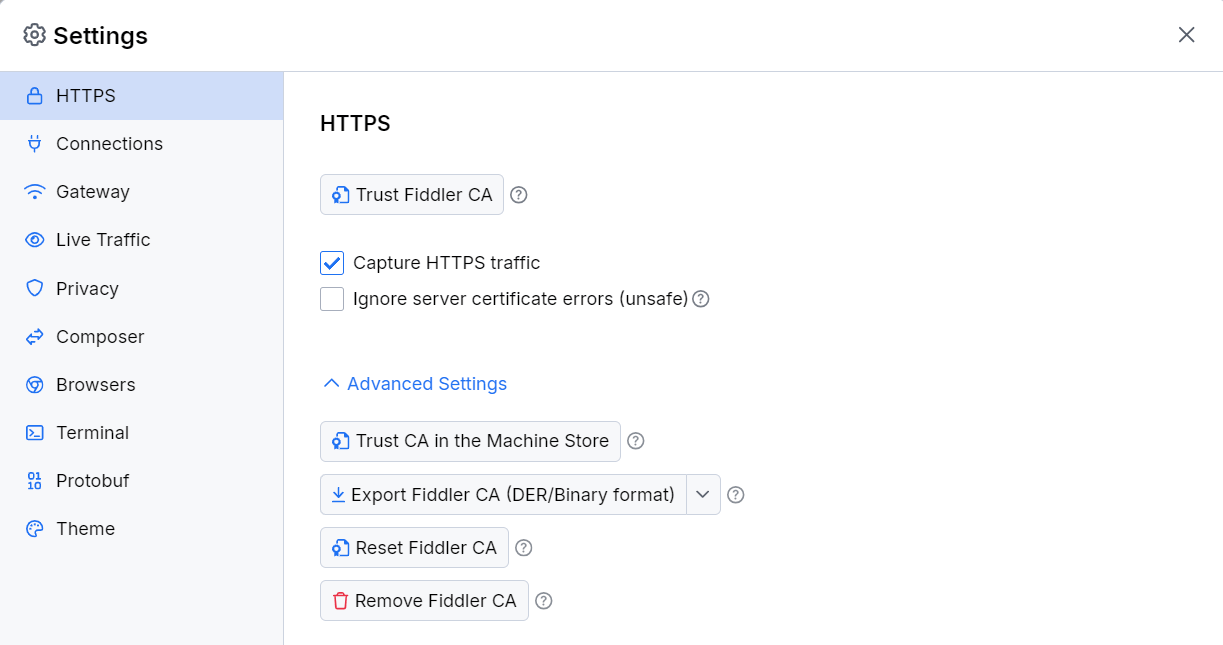
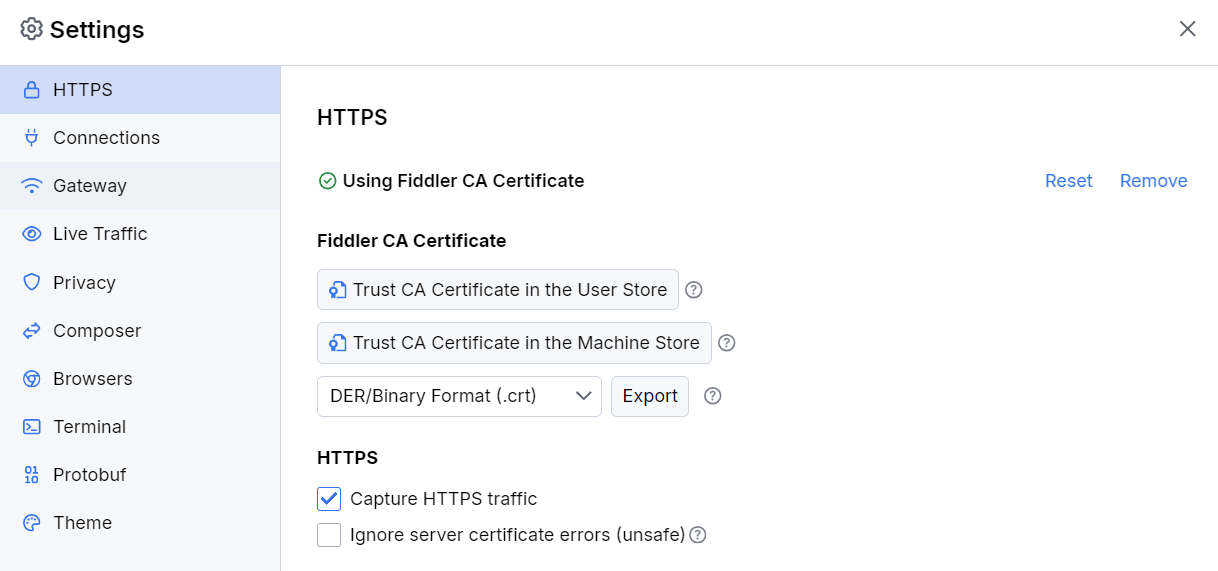
update article related to trusting the CA (#606)
* docs: improve Settings > HTTPS

* docs: improve the trust CA article

* docs: instructions

---------

diff --git a/installation-and-setup/trust-fiddler-ca.md b/installation-and-setup/trust-fiddler-ca.md
@@ -9,111 +9,88 @@ previous_url: /installation-and-update/trust-certificate-configuration
 
 # Trust Fiddler's Certificate Authority
 
-This article provides additional information about the options for installing the Fiddler Everywhere certificate authority (CA) in your operating system. The proper certificate installation is a crucial step when using Fiddler Everywhere to [capture system HTTPS traffic]({%slug capture-traffic-get-started%}#system-capturing). Note that the certificate authority installation is not mandatory if you choose to use the [independent browser capturing]({%slug capture-traffic-get-started%}#independent-browser-capturing) or [terminal capturing]({%slug capture-traffic-get-started%}#terminal-capturing) modes.
+Proper installation and trust of the Fiddler Everywhere Certificate Authority (CA) is essential for capturing and decrypting HTTPS traffic at the system level. This article explains the recommended and manual approaches for installing the Fiddler CA on Windows, macOS, and Linux, and provides troubleshooting tips and best practices.
 
-## Install the Fiddler's Certificate Authority (Recommended Automated Approach)
+>tip CA installation is not required if you use [independent browser capturing]({%slug capture-traffic-get-started%}#independent-browser-capturing) or [terminal capturing]({%slug capture-traffic-get-started%}#terminal-capturing) modes.
 
-The recommended approach for installing and trusting the Fiddler CA certificate is through the in-app system capturing mode wizards. Follow the articles below for detailed instructions on how to use the built-in wizards to install the Fiddler CA.
+## Recommended: Automated CA Installation
 
-1. Open the **Home** pane.
+The easiest and most reliable way to install and trust the Fiddler CA certificate is through the in-app system capturing wizards:
 
-1. Open the **System Proxy** tutorial and follow the instructions. During the configuration steps, you will be prompted to install and trust the Fiddler CA certificate with your operating system certificate manager.
+1. Open the **Home** pane in Fiddler Everywhere.
+2. Start the **System Proxy** tutorial and follow the prompts. You will be guided to install and trust the Fiddler CA certificate in your OS certificate manager.
 
-Once Fiddler CA certificate installs successfully, you can capture and analyze HTTPS traffic. The CA install once and remains valid until it is explicitly uninstalled. The CA name as listed within the operating system certificate manager is `Fiddler Root Certificate Authority`.
+Once installed, the CA remains valid until explicitly uninstalled. The CA appears as `Fiddler Root Certificate Authority` in your OS certificate manager.
 
-## Install the Fiddler's Certificate Authority (Manual Approach)
+## Manual CA Installation (Advanced)
 
-Fiddler Everywhere provides the option to manually go through the certificate authority installation and enable the HTTPS system traffic capture. In most cases, to capture the operating system HTTPS traffic, you can use the [recommended automated installation of the Fiddler CA](#install-the-fiddlers-certificate-authority-recommended-automated-approach) through our wizards. 
-
->important Use the manual approach only if the automated approach fails or you want to control and track the different steps of the CA installation.
-
-As Fiddler Everywhere is a cross-platform web-debugging proxy available for Windows, macOS, and Linux, you must follow the respective approach for installing the tool.
+Use the manual approach if the automated wizard fails or you need more control over the installation steps. Follow the instructions for your operating system:
 
 ### Windows
 
-1. Start Fiddler Everywhere and go to **Settings** > **HTTPS**.
-
-1. Click the **Trust Fiddler CA** button. Confirm your choice and add the certificate in the popup that appears.
-
-    >tip The **Trust Fiddler CA** option automatically exports and installs the Fiddler CA certificate in the Windows **user store**. If you want to install the Fiddler CA certificate in the Windows **machine store** (to be globally used from different users) then use the **Trust Fiddler CA certificate in the Machine Store** from the [**Advanced Options**]({%slug decrypt-https-traffic%}).
-
-1. Enable capturing the HTTPS traffic by selecting the **Capture HTTPS traffic** checkbox. Click **Save**.
-
-1. Back on the foremost Fiddler Everywhere screen, toggle ON the **System Proxy** to start capturing HTTP and HTTPS system traffic.
+1. Go to **Settings** > **HTTPS** in Fiddler Everywhere.
+2. Click **Trust Fiddler CA in the User Store**. Confirm and accept the certificate in the popup.
+   >tip To install the CA in the Windows **machine store** (for all users), run Fiddler as Administrator and use **Trust Fiddler CA in the Machine Store**.
+3. Go to **Settings** > **HTTPS** once more and enable **Capture HTTPS traffic**
+4. Click **Save**.
+5. On the main screen, toggle **System Proxy** ON to start capturing system HTTP/HTTPS traffic.
 
 ### macOS
 
-1. Start Fiddler Everywhere and go to **Settings** > **HTTPS**. 
-
-1. Click the **Trust Fiddler CA** button.
-
-1. In the window that appears, enter your machine's administrative credentials.
-
-    ![Enter Keychain credentials to trust the root certificate](../images/settings/settings-HTTPS-mac-keychain.png)
-
-1. Enable capturing the HTTPS traffic by selecting the **Capture HTTPS traffic** checkbox. Click **Save**.
-
-1. Back on the foremost Fiddler Everywhere screen, enable the **Live Traffic** to toggle to start capturing HTTP and HTTPS system traffic.
+1. Go to **Settings** > **HTTPS** in Fiddler Everywhere.
+2. Click **Trust Fiddler CA in the User Store**.
+3. Enter your macOS admin credentials when prompted.
+   ![Enter Keychain credentials to trust the root certificate](../images/settings/settings-HTTPS-mac-keychain.png)
+4. Go to **Settings** > **HTTPS** once more and enable **Capture HTTPS traffic**
+5. Click **Save**.
+6. On the main screen, enable **Live Traffic** to start capturing system HTTP/HTTPS traffic.
 
 ### Linux
 
-1. Start Fiddler Everywhere and go to **Settings** > **HTTPS**. Expand the **Advanced Settings** sub-menu and use the **Export Fiddler CA(DER/Binary format)** from the drop-down menu. The certificate is exported to **~/Desktop** as a file with the name **Fiddler_Root_Certificate_Authority.crt**.
+1. Go to **Settings** > **HTTPS** > **Export** in Fiddler Everywhere. Export the CA certificate in **DER/Binary format**. The file will be saved as **Fiddler_Root_Certificate_Authority.crt** on your Desktop.
 
-1. To import and trust the exported certificate, perform the following steps.
+2. Import and trust the exported certificate:
+   >important Some Linux distributions use localized Desktop folder names. If needed, create a `~/Desktop` directory before exporting.
 
-    >important (For localized Linux distributions only) Some Linux distributions, such as Ubuntu, use localized paths&mdash;for example, the name of the **Desktop** folder translates into the locale language. To resolve this issue, create a folder named **Desktop** in your root through `mkdir ~/Desktop`. Then, export the certificate to the newly-created directory. Once the certificate is installed, you can safely remove that directory.
+   ```sh
+   sudo mkdir -p /usr/share/ca-certificates/extra
+   sudo cp ~/Desktop/Fiddler_Root_Certificate_Authority.crt /usr/share/ca-certificates/extra
+   sudo dpkg-reconfigure ca-certificates
+   ```
 
-    1. Create a directory and copy the exported certificate by running the following commands.
-        ```shell
-        $ sudo mkdir /usr/share/ca-certificates/extra
-        $ sudo cp ~/Desktop/Fiddler_Root_Certificate_Authority.crt /usr/share/ca-certificates/extra
+   >tip If your distribution does not use `dpkg`, refer to your OS documentation or see our [Fedora, CentOS, RedHat]({%slug iddler-fedora-centos%}) and [XFCE]({%slug fiddler-xfce%}) guides.
 
-        // Starts the tool and upgrades the certificates.
-        $ sudo dpkg-reconfigure ca-certificates
-        ```
+3. In the prompt, select **Yes** to install new certificates, then select the Fiddler certificate and confirm.
 
-        >tip In case your Linux distribution does not use the `dpkg` library, then refer to your OS documentation for alternative ways to handle the CA installation or use our dedicated [Fedora, CentOS, RedHat]({%slug iddler-fedora-centos%}) and [XFCE]({%slug fiddler-xfce%}) instructions.
+4. Enable **Capture HTTPS traffic** and click **Save**.
 
-    1. From the prompt, select **Yes** to install new certificates.
+5. On the main screen, toggle **System Proxy** ON to capture system HTTP/HTTPS traffic.
 
-        ![Add new certificate](../images/configuration/cert_ubunto_002.png)
+## Exporting the Fiddler CA (for Manual or Third-Party Use)
 
-    1. Choose the `Fiddler_Root_Certificate_Authority.crt` file (while using the **Space** bar) and click **OK**.
+If automatic installation fails (due to security restrictions, permissions, or corporate policy), you can export the Fiddler CA and install it manually:
 
-        ![Add Fiddler certificate](../images/configuration/cert_ubunto_003.png)
+1. Go to **Settings** > **HTTPS**.
+2. Choose the desired format (**DER/Binary**, **PEM/ASCII**, or **PKCS 12**) and click **Export**.
+3. Add the exported certificate to your certificate manager (see [Linux]({%slug how-to-install-fiddler-root-certificate-in-firefox-on-linux%}), [macOS]({%slug how-to-install-fiddler-root-certificate-on-mac-os%}), or your application documentation).
+4. Enable **Capture HTTPS traffic** and click **Save**.
+5. Enable **System Proxy** to start capturing system traffic.
 
-    1. The certificates are now updated.
+### Installing in Third-Party Certificate Stores
 
-        ![Add Fiddler certificate](../images/configuration/cert_ubunto_004.png)
+Fiddler CA can be exported in multiple formats for use in other applications:
+- [Firefox on Linux]({%slug how-to-install-fiddler-root-certificate-in-firefox-on-linux%})
+- [Electron-based apps]({%slug ubuntu-ca-electron%})
+- [Python]({%slug fiddler-python-traffic%}#setting-fiddler-proxy-and-ca-through-environment-variable)
+- [AWS]({%slug how-to-capture-aws-traffic%})
 
-1. Enable capturing the HTTPS traffic by selecting the **Capture HTTPS traffic** checkbox and clicking **Save**.
+## Best Practices & Troubleshooting
 
-1. Back in the foremost Fiddler Everywhere screen, toggle ON the **System Proxy** to capture HTTP and HTTPS system traffic.
-
-Fiddler Everywhere enables you to control the certificate installation and HTTPS system capture. Use the [**HTTPS** menu]({%slug decrypt-https-traffic%}) for more advanced features and options related to the root trust certificate and the HTTPS system capture.
-
->tip Fiddler Everywhere provides the [independent browser capturing mode]({%slug capture-traffic-get-started%}#independent-browser-capturing-browser-capturing), which enables you to skip the system capturing configuration. The predefined browser-capturing option comes in handy when you generate captured traffic only from a browser, lack administrative rights to install certificates and modify the system proxy, or when third-party VPNs and security tools collide with the Fiddler Everywhere proxy.
-
-## Exporting the Fiddler CA
-
-The automatic installation of the trust certificate can fail due to security restrictions, compatibility issues, limited read/write rights, corporate policies, etc. In that case, the Fiddler Everywhere application presents an error message that notifies the user that the certificate installation has failed. You can export the Fiddler certificate and install it to solve similar issues manually.
-
-1. Start Fiddler Everywhere and go to **Settings** > **HTTPS** > **Advanced Settings**.
-
-1. Choose the proper certificate format (**DER/Binary**, **PEM/ASCII**, and **PKCS 12**) and click the **Export Fiddler CA** button. The export option will export the certificate to a root folder called **Desktop**, so ensure that such a folder exists in your file system.
-
-1. Add the exported certificate to the desired certificate manager (for example, on [Linux]({%slug how-to-install-fiddler-root-certificate-in-firefox-on-linux%}), [macOS]({%slug how-to-install-fiddler-root-certificate-on-mac-os%}), custom application, etc.).
-
-1. Enable capturing the HTTPS traffic by selecting the **Capture HTTPS traffic** checkbox. Click **Save**.
-
-1. Back in the **Traffic** pane, enable the **System Proxy** to start capturing HTTP and HTTPS system traffic.
-
-### Install Fiddler's Certificate Authority in Third-Party Certificate Stores
-
-Fiddler Everywhere can export the CA file in different formats, enabling you to install the Fiddler CA certificate in third-party certificate stores.
-
-* [Learn how to install the Fiddler CA certificate in Firefox here...]({%slug how-to-install-fiddler-root-certificate-in-firefox-on-linux%})
-* [Learn how to install the Fiddler CA certificate in Electron-based applications here...]({%slug ubuntu-ca-electron%})
-* [Learn how to install the Fiddler CA certificate in Python here...]({%slug fiddler-python-traffic%}#setting-fiddler-proxy-and-ca-through-environment-variable)
-* [Learn how to install the Fiddler CA certificate for AWS here...]({%slug how-to-capture-aws-traffic%})
+- Always install the CA certificate only from the official Fiddler Everywhere application.
+- Use the User Store for personal development; use the Machine Store only if multiple users need HTTPS capture.
+- Remove the CA certificate when you no longer need HTTPS capturing for security.
+- If HTTPS capture does not work, verify the CA is trusted and "Capture HTTPS traffic" is enabled.
+- For certificate errors on specific sites, add the domain to the ignore list (for development only).
+- On Linux, always follow the manual export and trust instructions for your distribution.
+- Use [independent browser capturing]({%slug capture-traffic-get-started%}#independent-browser-capturing-browser-capturing) if you lack admin rights or only need browser traffic.
 

diff --git a/user-guide/settings/https.md b/user-guide/settings/https.md
@@ -6,43 +6,51 @@ publish: true
 position: 10
 ---
 
-# HTTPS Menu
+# HTTPS Settings
 
-After the initial startup, Fiddler Everywhere default captures only non-secure traffic (HTTP).
+After initial startup, Fiddler Everywhere captures only non-secure HTTP traffic by default.
 
-To enable the capturing and decrypting of HTTPS traffic, you need to install the Fiddler root CA (certificate authority) through the **HTTPS** sub-menu under **Settings**.
+To capture and decrypt HTTPS traffic, you must install and trust the Fiddler root CA (Certificate Authority) via the **HTTPS** sub-menu under **Settings**.
 
-- **Trust CA Certificate**&mdash;Installs and trusts the Fiddler root Certificate authority (CA) in the **user store** of the operating system certificate manager. The option is available on [macOS]({% slug first_steps_macos %}#start-system-capturing) and [Windows]({% slug first_steps_windows %}#start-system-capturing). On Linux, you have to [export and trust the Fiddler CA certificate manually]({% slug first_steps_linux %}#start-system-capturing). After you install the CA, you are ready to [enable the capturing of HTTPS traffic](#capture-https-traffic).
+## Certificate Trust Options
 
-- **Capture HTTPS traffic**&mdash;Defines if Fiddler Everywhere will capture HTTPS traffic or skip it. By default, this option is disabled. Before you enable the capturing of HTTPS traffic, you must trust the Fiddler root certificate.
+- **Trust CA Certificate in the User Store**: Installs and trusts the Fiddler root CA in the user store of your OS certificate manager. Available on [macOS]({% slug first_steps_macos %}#start-system-capturing) and [Windows]({% slug first_steps_windows %}#start-system-capturing). On Linux, [export and trust the Fiddler CA certificate manually]({% slug first_steps_linux %}#start-system-capturing). After installation, you can [enable HTTPS traffic capturing](#capture-https-traffic).
 
-- **Ignore server certificate errors**&mdash;Controls whether Fiddler Everywhere warns you if an HTTPS server presents a certificate that cannot be validated. Do not check this box when surfing the Internet because of a possible [spoofing security threat](https://en.wikipedia.org/wiki/Spoofing_attack). 
+- **Trust CA Certificate in the Machine Store**: Installs and trusts the Fiddler root CA in the machine store (all users) of the OS certificate manager. Available on Windows only and requires administrative privileges.
 
-    * The **Ignore server certificate errors** checkbox is active (with a tick), but the ignore list is left blank&mdash;Fiddler will automatically ignore all server certificate errors. 
+- **Export**: Exports the Fiddler CA certificate in your chosen format: DER/Binary (.crt), PEM/BinASCII (.pem), or PKCS 12 (.p12).
 
-    * The **Ignore server certificate errors** checkbox is active (with a tick), and the ignore list is populated with specific endpoints&mdash;Fiddler will ignore only server certificate errors for the listed endpoints. Adding endpoints to the ignore list works only for new connections.
+- **Reset**: Removes the current CA, generates a new one, and trusts it. Use if you suspect compromise or encounter certificate issues.
 
-    * The **Ignore server certificate errors** checkbox is inactive (no tick)&mdash;Fiddler won't ignore server certificate errors, and upon hitting one, will present a special Fiddler's page that informs the user about the insecure connection. The custom Fiddler's page also provides a quick link to add the specific endpoint to the ignore list.
+- **Remove**: Removes the trusted CA from the OS certificate store. HTTPS traffic capturing will be disabled until a new CA is installed.
 
-- **Advanced Settings**&mdash;A drop-down menu that provides the following additional options related to the Fiddler root CA (certificate authority):
+## HTTPS Traffic Options
 
-    - **Trust CA Certificate in the Machine Store**&mdash;Installs and trusts the Fiddler CA certificate in the **machine store** of the operating system certificate manager. The option is available only on [Windows]({% slug first_steps_windows %}#start-system-capturing).
+- **Capture HTTPS traffic**: Enables or disables HTTPS traffic capturing. Disabled by default. You must trust the Fiddler root certificate first.
 
-    - **Export CA Certificate**&mdash;A drop-down menu to select a format and export the Fiddler CA certificate to the operating system **Desktop** folder. Some operating systems do not have a default folder named **Desktop**. In such cases, you must create this folder (`~/Desktop` for macOS and Linux distributions) to export the certificate successfully. Fiddler Everywhere provides options to export the following formats:
-        * **Export CA Certificate(DER/Binary format)**&mdash;Exports the Fiddler Everywhere CA in binary format as `Fiddler_Root_Certificate_Authority.crt`.
-        * **Export CA Certificate(PEM/ASCII format)**&mdash;Exports the Fiddler Everywhere CA in ASCII format as `Fiddler_Root_Certificate_Authority.pem`.
-        * **Export CA Certificate(PKCS 12 format)**&mdash;Exports the Fiddler Everywhere CA in PKCS 12 format as `Fiddler_Root_Certificate_Authority.p12`.
+- **Ignore server certificate errors**: Controls whether Fiddler warns you if an HTTPS server presents an invalid certificate. 
+  - **Warning:** Do not enable this when browsing the Internet, as it may expose you to [spoofing attacks](https://en.wikipedia.org/wiki/Spoofing_attack).
+  - **Checkbox active, ignore list blank**: Ignores all server certificate errors.
+  - **Checkbox active, ignore list populated**: Ignores errors only for listed endpoints (new connections only).
+  - **Checkbox inactive**: Fiddler will show a warning page for certificate errors, with a quick link to add the endpoint to the ignore list.
 
-    - **Reset CA Certificate**&mdash;Click the button to remove the currently trusted CA, generate a new one, and trust it.
-    
-    - **Remove CA Certificate**&mdash;Click the button to remove the currently trusted CA from the OS certificate store. As a result, the capturing of HTTPS traffic will be disabled.
+## Default HTTPS Settings
 
-The following figure displays the default settings of the **HTTPS** menu.  
+The following figure displays the default settings of the **HTTPS** menu:
 
-![default https settings](../../images/settings/settings-https.png)
+![Default HTTPS settings](../../images/settings/settings-https.png)
 
 ## Inline Notifications
 
-If the Fiddler root CA is not yet trusted, an inline notification will warn you that the [system HTTPS capture]({%slug capture-traffic-get-started%}#system-capturing) is disabled. This notification will hide if you use the [independent browser capturing option]({%slug capture-traffic-get-started%}#independent-browser-capturing) and will re-appear once you close the active independent browser instance.
+If the Fiddler root CA is not yet trusted, an inline notification will warn you that [system HTTPS capture]({%slug capture-traffic-get-started%}#system-capturing) is disabled. This notification hides if you use [independent browser capturing]({%slug capture-traffic-get-started%}#independent-browser-capturing) and reappears when you close the independent browser instance.
 
-![inline notification](../../images/get-started/notification.png) 
+![Inline notification](../../images/get-started/notification.png)
+
+## Troubleshooting & Best Practices
+
+- Always install the CA certificate only from the official Fiddler Everywhere application.
+- Use the User Store for personal development; use the Machine Store only if multiple users need HTTPS capture.
+- Remove the CA certificate when you no longer need HTTPS capturing for security.
+- If HTTPS capture does not work, verify the CA is trusted and "Capture HTTPS traffic" is enabled.
+- For certificate errors on specific sites, add the domain to the ignore list (for development only).
+- On Linux, always follow the manual export and trust instructions for your distribution.
